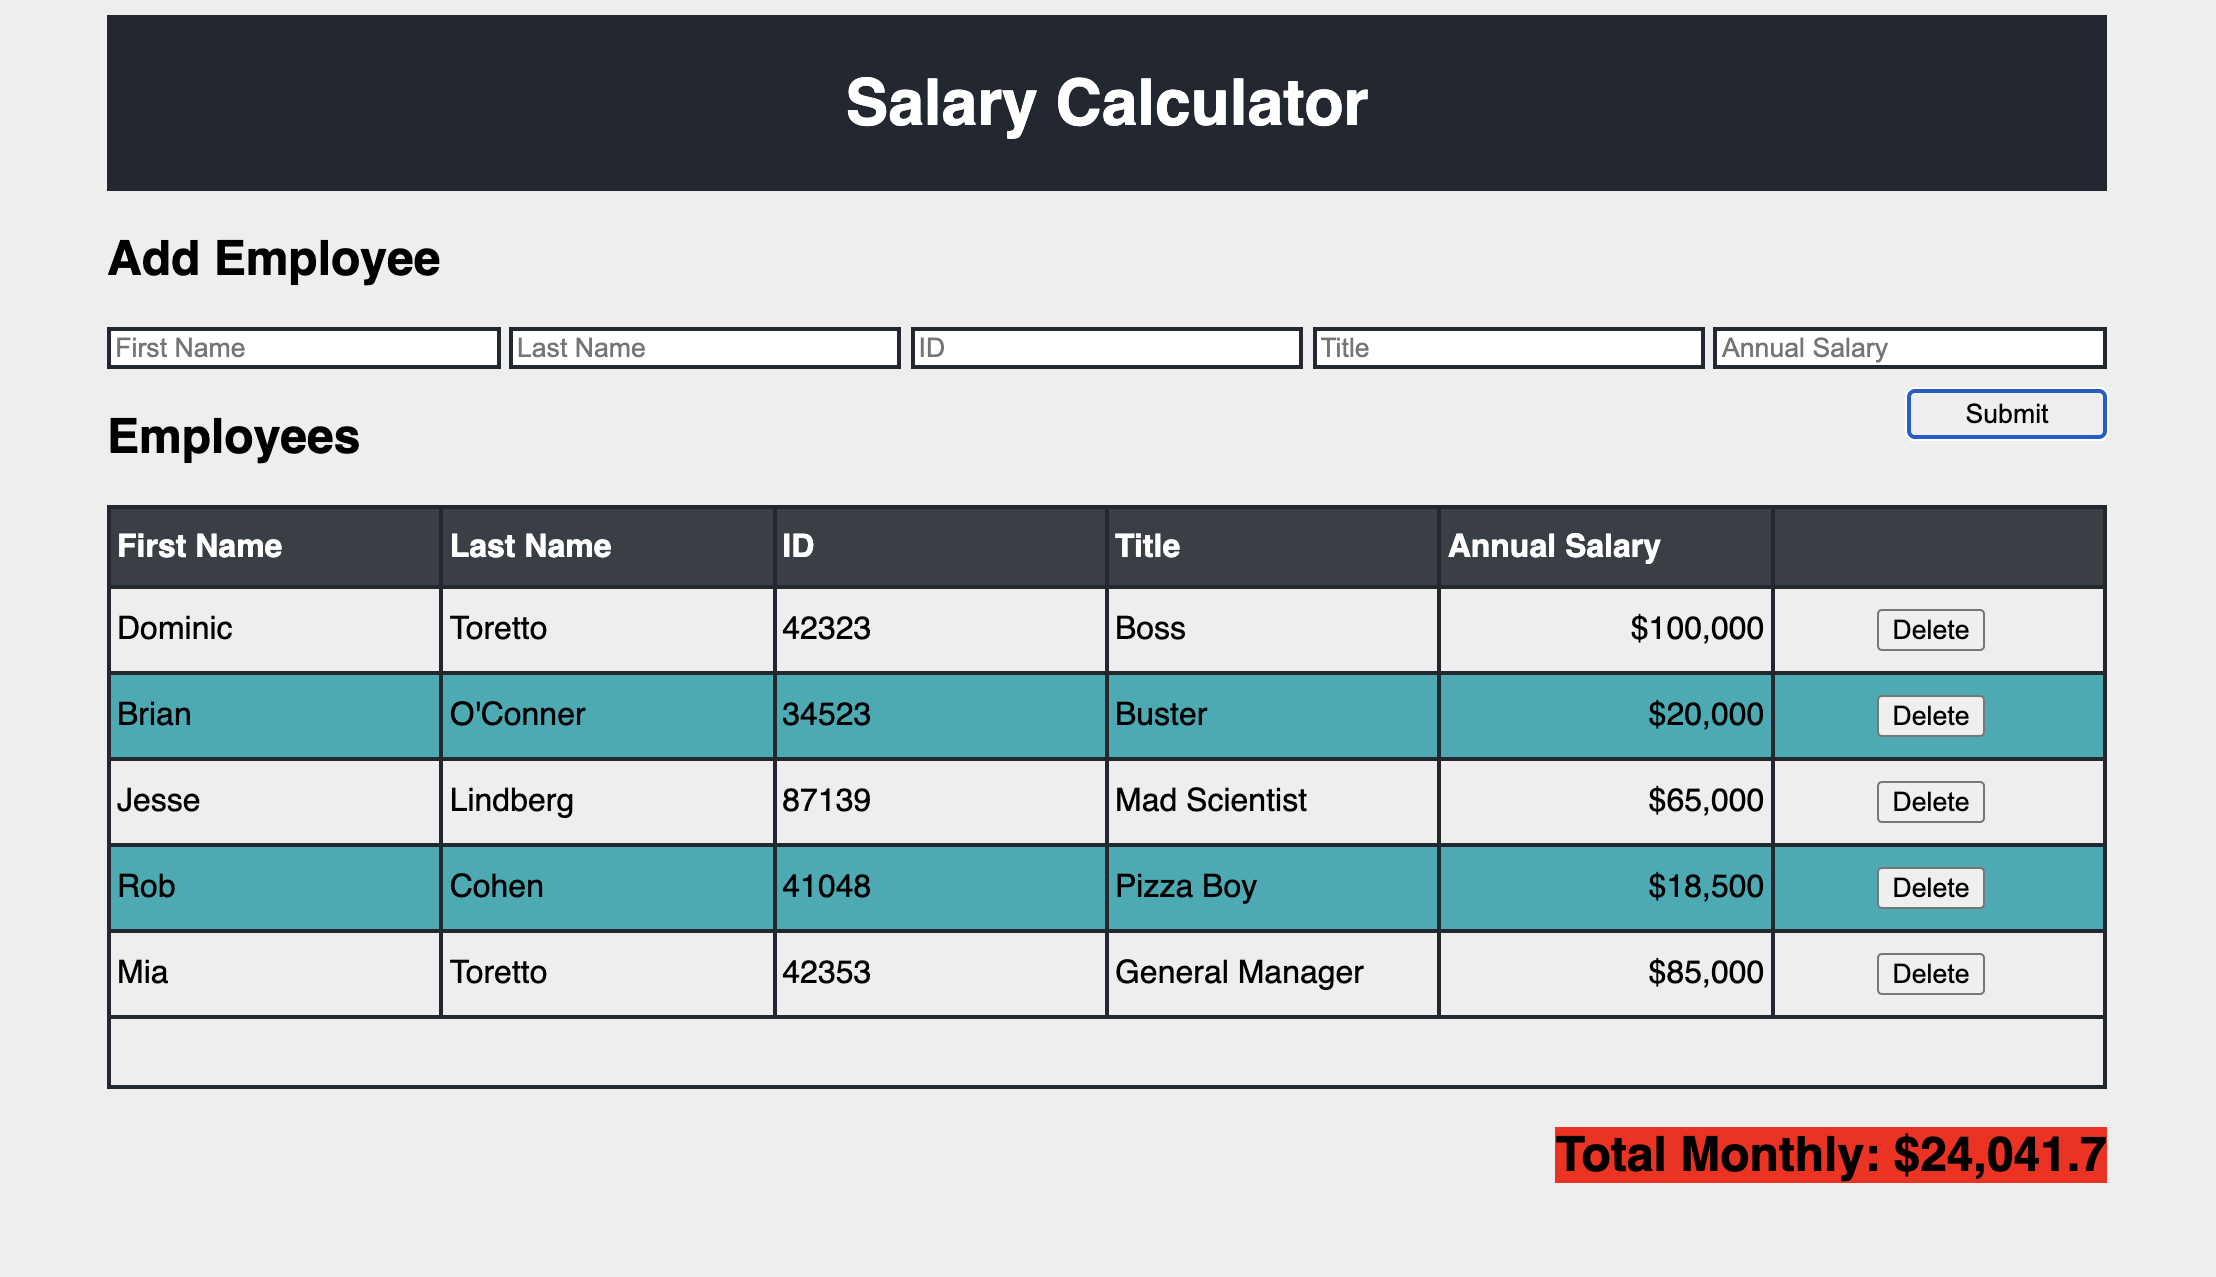
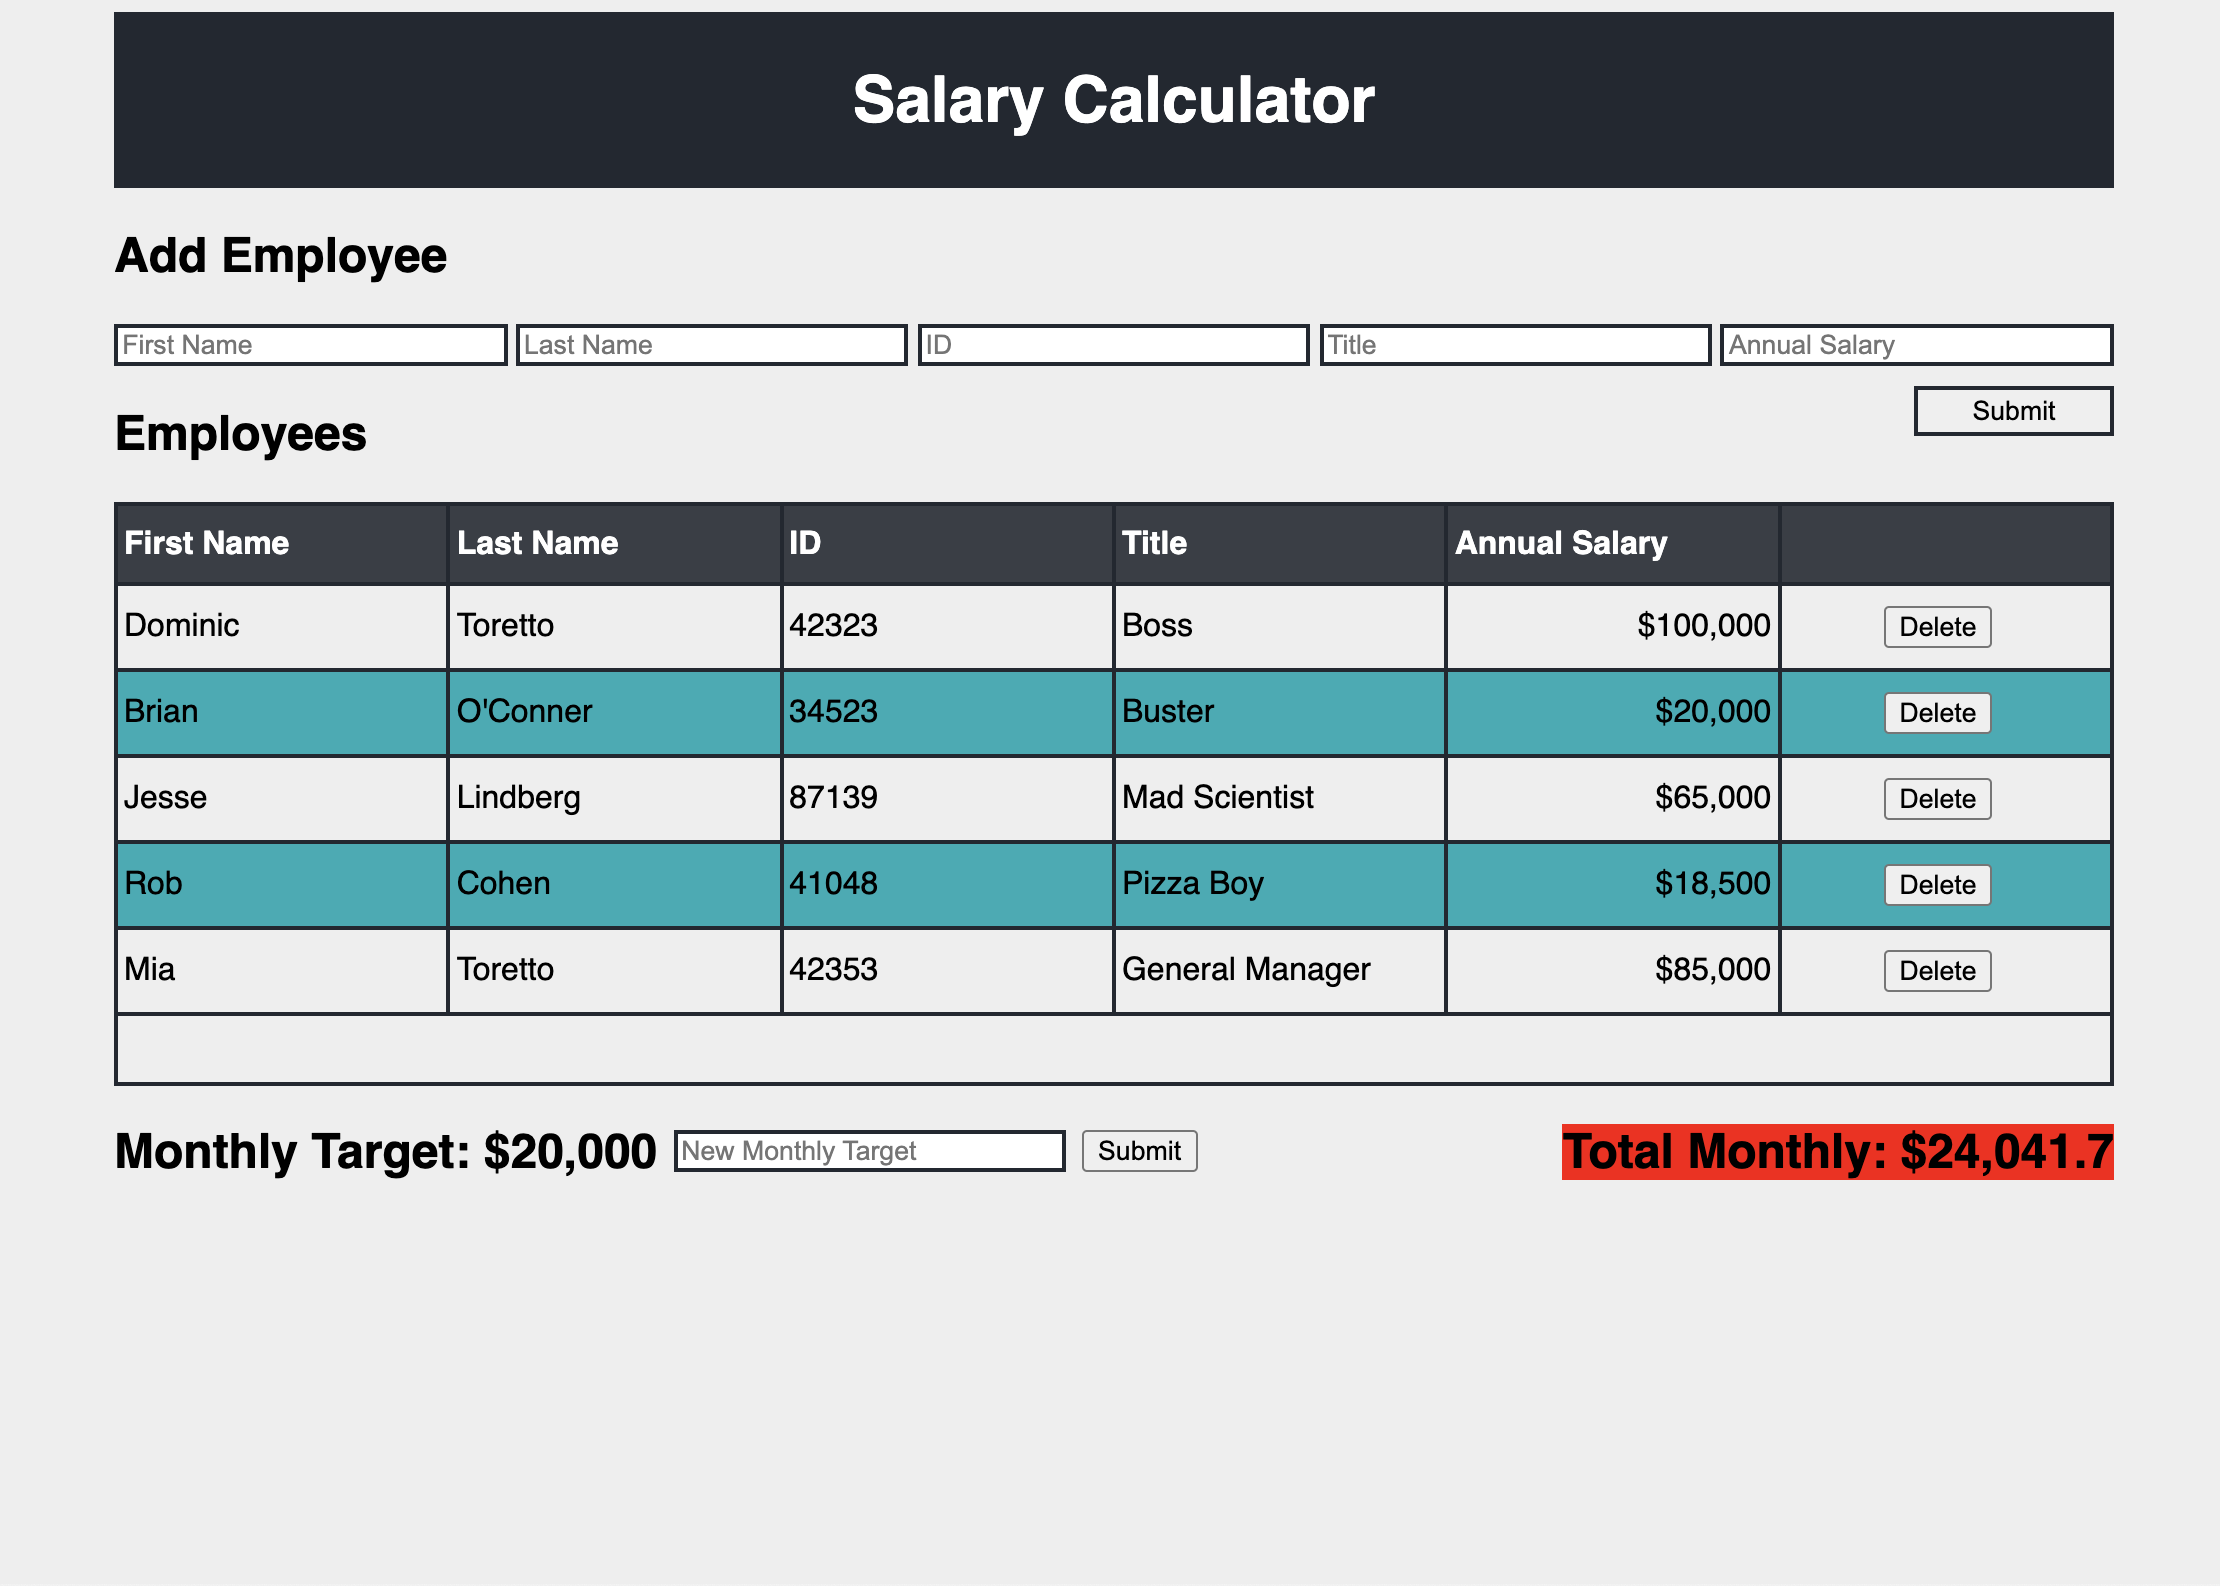
updated README.md with a new screenshot for the monthly target

diff --git a/README.md b/README.md
@@ -24,7 +24,7 @@ Monthly target is displayed on the DOM, next to a monthly target input, and a su
 
 ## Screenshot
 
-![App-Screenshot](calculator-screenshot.png) (Not shown: monthly target, monthly target input, monthly target submit button)
+![App-Screenshot](calculator-screenshot.png)
 
 ## Installation
 
